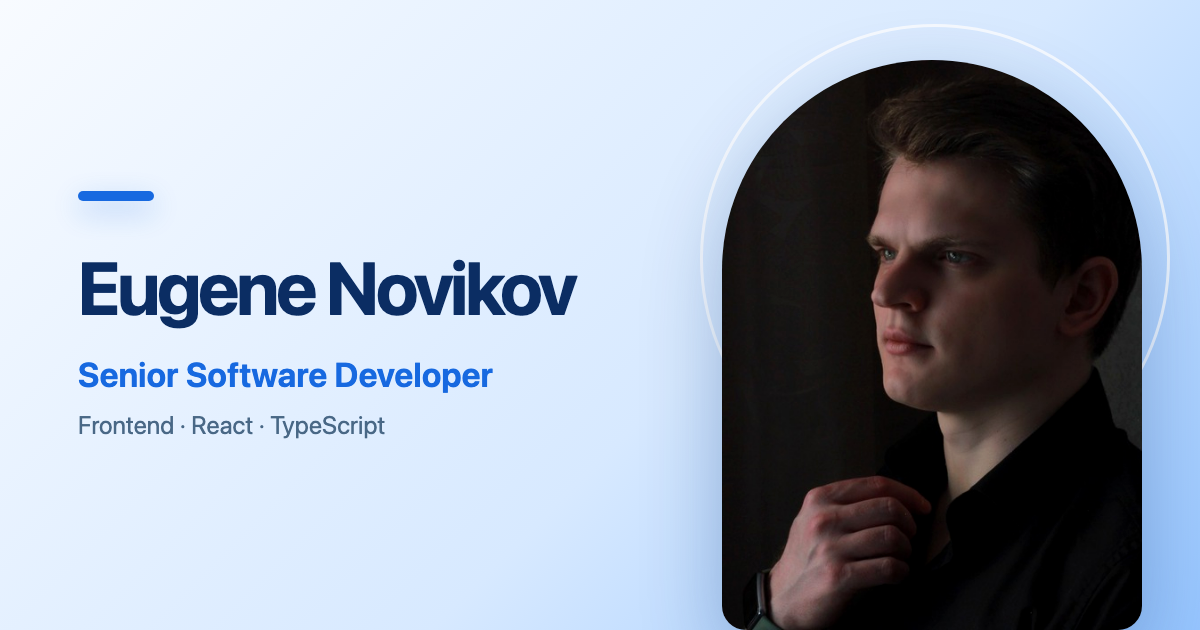
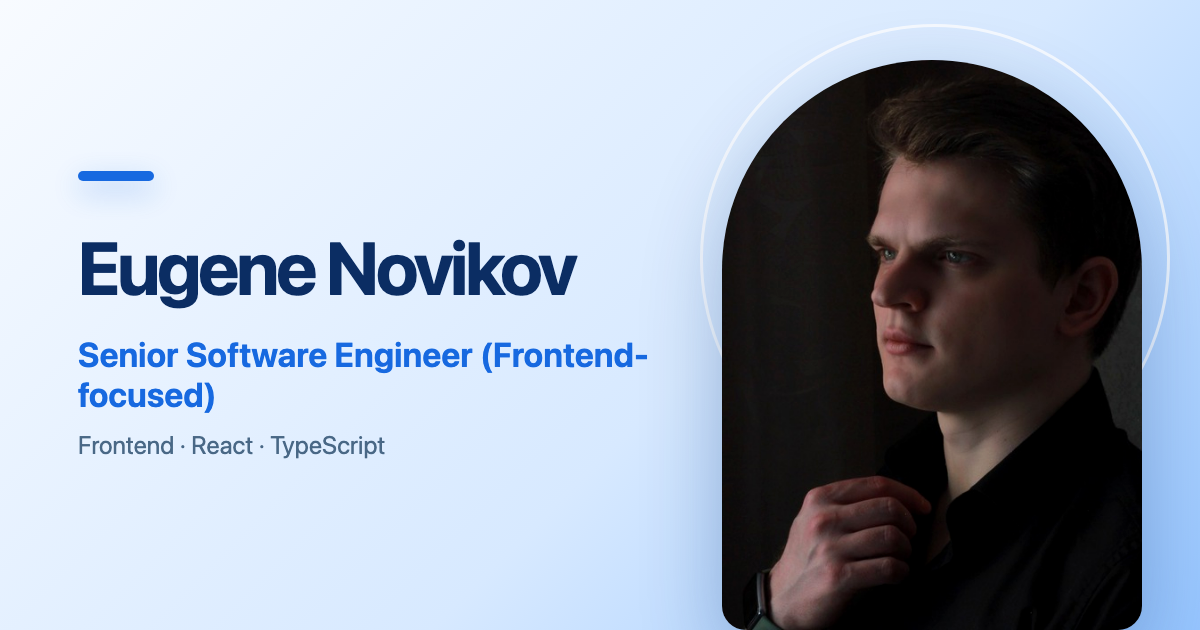
Refresh portfolio v4 content and presentation

Changed region(s): [[0.0617, 0.3619, 0.555, 0.7238], [0.0617, 0.2714, 0.1233, 0.3317]]

diff --git a/src/styles/global.css b/src/styles/global.css
@@ -323,6 +323,10 @@ button:hover {
   font-size: 1.6rem;
   margin-bottom: 1.4rem;
 }
+.highlights h3 {
+  margin-bottom: 0.65rem;
+  font-size: 1.05rem;
+}
 .highlights p {
   font-size: 0.95rem;
   line-height: 1.65;
@@ -547,6 +551,15 @@ button:hover {
 }
 .evolution-step p {
   margin-top: 0.75rem;
+}
+.career-milestone {
+  margin: 1.5rem 0 1.5rem 1.5rem;
+  padding: 1rem 1.25rem;
+  border: 1px dashed var(--border);
+  border-radius: 12px;
+}
+.career-milestone p {
+  margin-block: 0.5rem;
 }
 [data-evolution-controls]:not([hidden]) {
   display: flex;

diff --git a/README.md b/README.md
@@ -34,13 +34,14 @@ npm run test:e2e
 - `dist/index.html`: locale redirect, Russian by default; honors an existing explicit `localStorage.locale = 'en'`. Readable bilingual links remain without JavaScript. The current UI locale links do not save that preference.
 - `dist/404.html`: real not-found content, `noindex`, no SPA redirect. GitHub Pages supplies the 404 HTTP status. A single Russian fallback is used for all missing URLs.
 - `dist/downloads/resume-{ru,en}.pdf`: A4, tagged/selectable text, active links, existing print CSS, no navigation. Regenerate with `npm run build`; do not edit PDFs manually.
+- `dist/availability.json`: the same manual typed availability record rendered in RU/EN HTML and PDFs; no runtime API or HH synchronization is required.
 - Canonical/hreflang links, localized descriptions, Person/Occupation JSON-LD, purpose-built 1200×630 OpenGraph cards generated from the approved portrait, `sitemap.xml`, `robots.txt`, favicon and `.nojekyll` are emitted/copied at build time.
 
 PDF rendering uses a temporary loopback server, JavaScript disabled, UTC, a fixed light theme and reduced motion. Before printing, internal link targets are rewritten to the configured public `SITE_URL` and `BASE_PATH`; loopback addresses are never retained in PDF annotations. Browser work is bounded to 90 seconds, and browser/server cleanup runs in `finally`. Volatile PDF creation/modification dates are normalized without changing cross-reference offsets. Byte-identical output was verified across two builds on the same Chromium/OS; different OS fonts or browser revisions can change bytes/layout. Keep the lockfile and CI platform consistent. Review both PDFs visually after editorial changes; automated export checks are not a substitute for pagination review.
 
 ## Content editing
 
-Canonical public content lives in `src/content/seed.ts`; schemas and publication checks are in `src/content/schema.ts`, validated by `src/content/index.ts`. UI translations live in `src/app/copy.ts`. Skill categories live in `src/content/skills.ts`; reusable clipboard formatting is isolated in `src/app/resume-text.ts`.
+Canonical public content lives in `src/content/seed.ts`; schemas and publication checks are in `src/content/schema.ts`, validated by `src/content/index.ts`. Employment records carry explicit date precision; non-employment transitions use typed career milestones and do not increase experience duration. UI translations live in `src/app/copy.ts`. Skill categories live in `src/content/skills.ts`; reusable clipboard formatting is isolated in `src/app/resume-text.ts`.
 
 1. Edit both languages together, preserving factual parity and the evidence/publication policy in `SPEC.md` and `docs/CONTENT_POLICY.md`.
 2. Do not add private notes, contact details without approval, unapproved metrics or guessed links to public source files. SSR is not a privacy boundary: imported content can also enter client bundles.
@@ -75,6 +76,6 @@ Architecture and publication decisions are maintained in `docs/DECISIONS.md`; me
 - Reuse existing React App and Vite SSR rather than add an SSG dependency or maintain duplicate resume templates.
 - Inline head theme initialization uses the same `theme` storage key as the UI, before CSS rendering; invalid/blocked storage falls back to system styling.
 - OpenGraph previews are local 1200×630 PNG files generated by `scripts/generate-og.ts` from `public/profile.jpg`; the deployed application requires no remote image service.
-- No runtime APIs or analytics. Availability is static typed content with no external dependency. The Evolution view is generated only when `ENABLE_EVOLUTION=true`; it remains disabled by default and its enhancement is lazy-loaded.
+- No runtime APIs or analytics. Availability is a manual typed record (`status`, localized label, `updatedAt`, `source`) used directly by HTML/PDF and emitted as `/availability.json`; HH synchronization remains out of scope. The Evolution view is generated only when `ENABLE_EVOLUTION=true`; it remains disabled by default and its enhancement is lazy-loaded.
 - Browser tests cover axe on all four pages, hydration errors, locale route retention, persisted theme, keyboard/anchors, 320/375/768/1280px layouts, light/dark screenshot artifacts, reduced motion, no-JS resume/projects, downloads and genuine 404s. Screenshots are artifacts, not approved visual-regression baselines.
 - Local mobile Lighthouse results and visual/PDF review are recorded in `docs/QA.md`. Live GitHub Pages deployment and cross-browser rendering remain unverified.

diff --git a/docs/QA.md b/docs/QA.md
@@ -41,7 +41,7 @@ These measurements predate the brighter visual scheme and expanded project/conta
 
 Generated and opened **all eight full-page screenshots** using the image reader: RU/EN × 320/1280px × light/dark (900px viewport height). No observed clipping, overlapping sections or broken wrapping; mobile uses a single column, stacked highlights and wrapped technology tags, while desktop preserves the editorial grid. All eight also returned `document.documentElement.scrollWidth <= innerWidth`. Mobile names wrap to two lines. These are manual visual observations, not approved pixel-regression baselines; full-page images are downscaled in the review interface.
 
-Reviewed resume/PDF content retains all three employers, their date ranges, education, restrained shared-architecture/cache claims and honest unpublished-project wording in both languages. No A/B success claim, invented performance percentage, confidential revenue, personal phone/email or unapproved English-level claim was observed in that reviewed content. This is a bounded rendered-content check plus the passing schema tests, not an exhaustive bundle/secrets audit or renewed verification of employer facts.
+This pre-v4 review covered all three employers then published, their date ranges, education, restrained shared-architecture/cache claims and honest unpublished-project wording in both languages. No A/B success claim, invented performance percentage, confidential revenue, personal phone/email or unapproved English-level claim was observed in that reviewed content. This is a bounded rendered-content check plus the passing schema tests, not an exhaustive bundle/secrets audit or renewed verification of employer facts.
 
 ## PDF review — fixed issue and limitations
 
@@ -51,6 +51,17 @@ Inspected `dist/downloads/resume-{ru,en}.pdf` using pypdf 6.21.2 and PyMuPDF 1.2
 - **Fixed after initial review:** case/project PDF link annotations are rewritten before printing to `SITE_URL` + `BASE_PATH`. The rebuilt PDFs contain public `https://no0vie.github.io/...` links and no `localhost` or `127.0.0.1` destinations. GitHub annotations target `https://github.com/no0vie`.
 - **Polish:** the expanded four-page PDFs need a new visual pagination pass and should be tightened if possible.
 - **Extraction discrepancy, not a confirmed encoding defect:** pypdf renders Cyrillic `к` as `ĸ` in extracted text (e.g. `Новиĸов`), whereas PyMuPDF returns 98 Cyrillic `к` characters and no `ĸ`; rendered Russian glyphs look correct. Do not infer broken PDF text from one parser. Actual ATS/viewer copy/search interoperability remains unverified.
+
+## Portfolio update v4 verification — 2026-10-22
+
+- `npm run typecheck`: pass.
+- `npm test`: 44 tests passed across 6 files. Content assertions now require the full RU/EN MTS comparison, FRUCT date precision, the non-employment milestone and structured availability.
+- `npm run lint`: pass after typing the E2E JSON payload as `unknown`.
+- `npm run build`: pass outside the terminal OS sandbox; generated both locale trees, `/availability.json`, and mandatory RU/EN PDFs. Sandboxed Chromium could build HTML but hung in `page.pdf()` until the watchdog; this was an environment limitation, not reported as a successful sandboxed PDF run.
+- `npm run test:e2e`: 24 passed with Evolution disabled.
+- `ENABLE_EVOLUTION=true npm run build && ENABLE_EVOLUTION=true npm run test:e2e`: build pass and 24 E2E tests passed. This covered the four employment steps, scholarship milestone, keyboard navigation, 320px fallback, reduced motion, no-JS content and both locales.
+- Generated PDF metadata inspected with macOS `mdls`: RU is 5 pages / 489,446 bytes; EN is 4 pages / 437,913 bytes. E2E verified valid PDF signatures, successful downloads, print visibility and hidden navigation. `pypdf`, PyMuPDF, `pdfinfo` and `pdftotext` were unavailable, so this iteration did not repeat the prior page-by-page rendered visual review or independent text/link extraction.
+- `npm run format:check` remains blocked only by the owner-provided untracked `CODEX_TASK.md` and `PORTFOLIO_UPDATE_V4.md`; all implementation/documentation files changed in this update were formatted explicitly with Prettier.
 
 ## Evidence and remaining scope
 

diff --git a/docs/DECISIONS.md b/docs/DECISIONS.md
@@ -33,8 +33,8 @@
 
 ## Recruiter content update (2026-10-22)
 
-- Public positioning is `Senior Software Developer` / `Старший разработчик ПО`; this avoids implying formal people management while retaining seniority.
-- The confirmed campaign-wizard extension cycle is published as “typically 1–2 working days, including post-test fixes,” without claiming a multiplier or direct legacy comparison.
+- Historical decision, superseded by Portfolio v4: positioning was `Senior Software Developer` / `Старший разработчик ПО` to avoid implying formal people management while retaining seniority.
+- Superseded by Portfolio v4: the campaign-wizard result now preserves the approved causal chain from extensible architecture to 1–2 working days including post-testing fixes, compared approximately with a two-week sprint in an existing implementation of similar functionality. This is not a controlled benchmark or multiplier claim.
 - The outcome-less address-button A/B experiment was removed; general participation in product A/B experiments remains.
 - Pantry and Magic Ball link only to audited owner repositories. Pantry is marked released because its public version is complete, while its evolution into a platform remains explicitly planned; Magic Ball remains in progress. Riply and Cave Escaper have no links and are explicitly marked concepts.
 - The owner approved `eugene.malin765@gmail.com`, `evgeniys-nov@yandex.ru`, `https://t.me/no_0vie`, and the WhatsApp QR URL `https://wa.me/qr/XFZZQSNXJCSBL1`. No phone number is published.
@@ -42,4 +42,13 @@
 - Skills are grouped by current core, architecture/state, testing/tooling, backend/data and prior specialized experience; no proficiency percentages are used.
 - The visual system uses an original brighter blue-and-white palette inspired only by the requested science-fiction mood. No Star Wolves/InoCo assets, trademarks or interface elements are copied.
 - Purpose-built social cards use the owner-provided portrait and are generated locally with `npm run assets:og`.
-- Availability is stored as typed bilingual content and rendered without an external link or synchronization dependency.
+- Availability is stored as a typed manual record and rendered without an external link or synchronization dependency.
+
+## Portfolio update v4 (2026-10-22)
+
+- Added FRUCT as paid hourly external software-development experience with approximate internal dates (`2015-07`–`2016-12`) and public year-only rendering. It precedes Tensor and includes no invented tracker, customer, scale or commercial outcome.
+- Added Tensor scholarship/Tic-Tac-Toe as a typed non-employment milestone. The URL `https://github.com/no0vie/tic-tac-toe` was verified through the public GitHub API and README; the milestone does not affect experience duration or top highlights.
+- Public positioning is now `Senior Software Engineer (Frontend-focused)` with a restrained Russian equivalent, per v4. Official historical job titles remain unchanged.
+- Availability now has `available | selective | unavailable | unknown`, `updatedAt`, `source` and optional `verifiedAt`; the current owner-approved manual value is emitted to `/availability.json` and reused by HTML/PDF.
+- Evolution remains optional but now follows FRUCT → Tensor → Yandex Market → MTS, with the scholarship milestone between FRUCT and Tensor.
+- HH OAuth/scraping, backend status synchronization and external profile publication remain explicitly out of scope.
